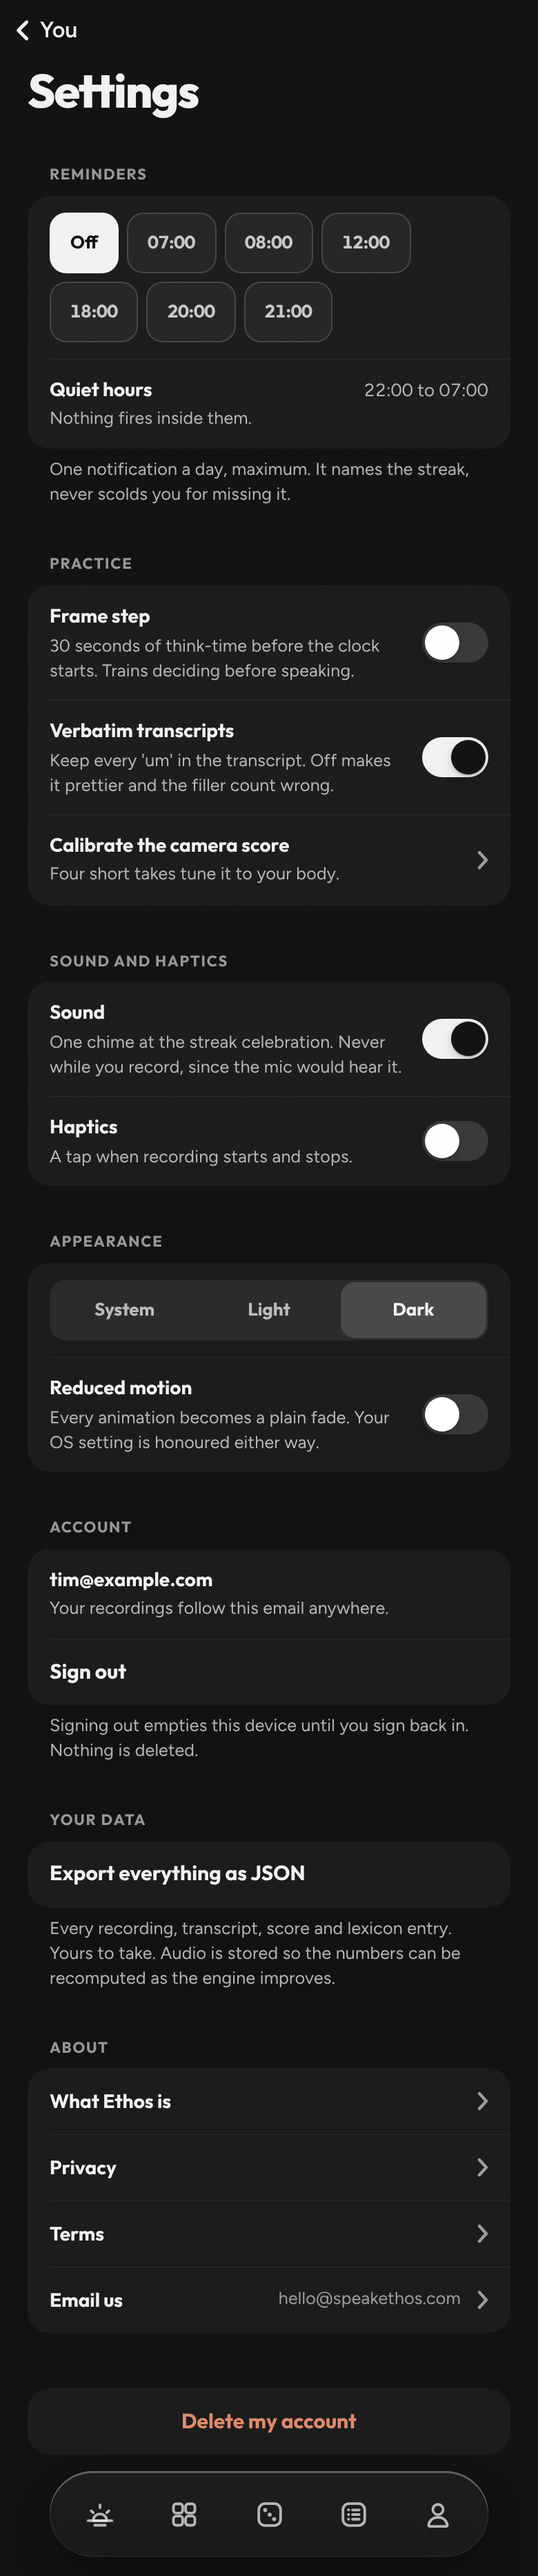
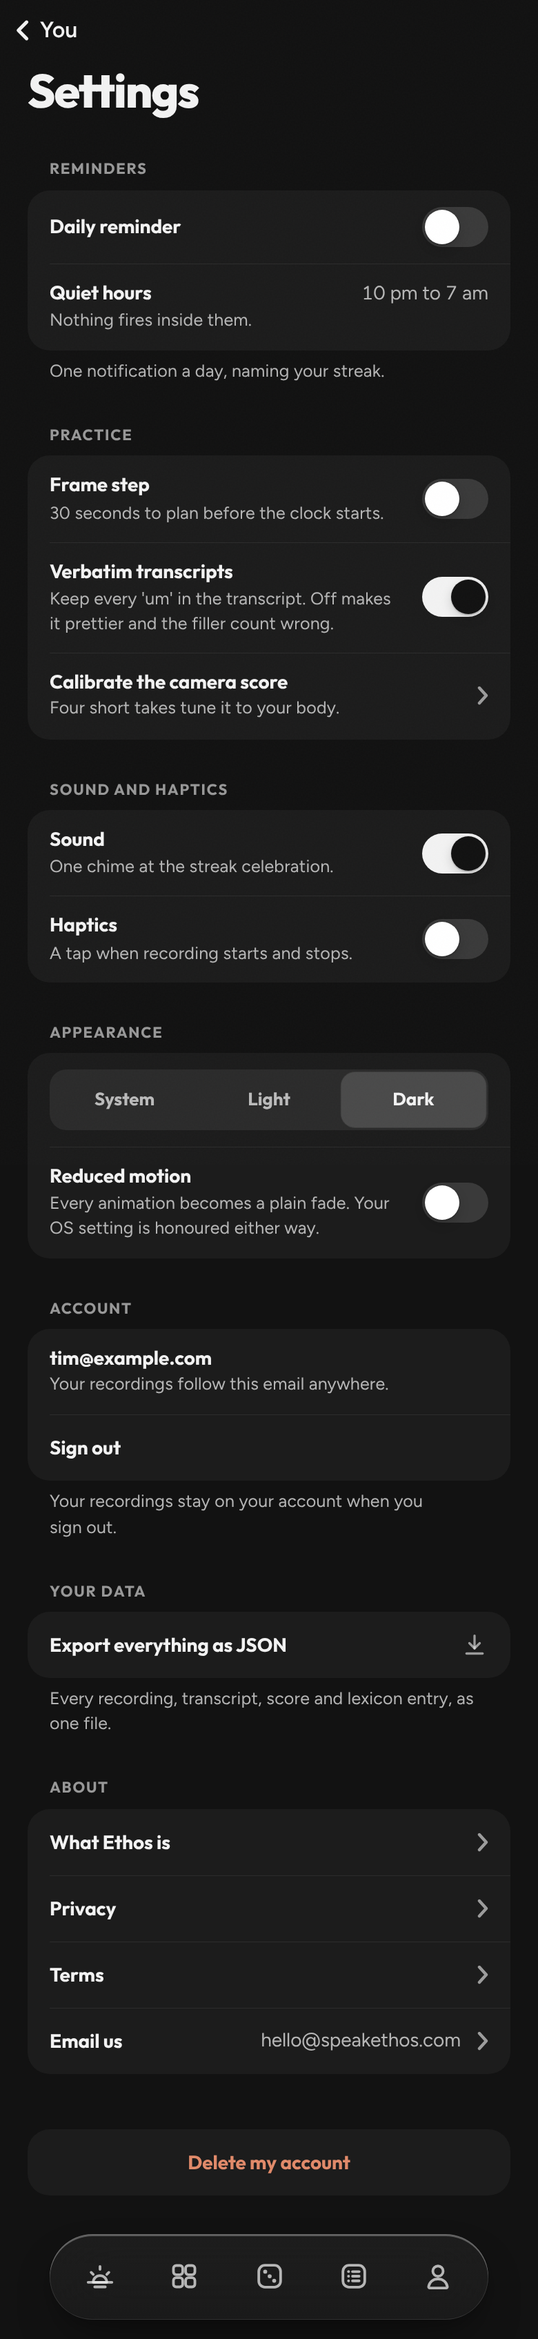
B8: the Settings look loop: Export carries a download mark, after shots with the reminder off and on
Claude-Session: https://claude.ai/code/session_01KQpi1wPL2sdqgKKvt94vrP

diff --git a/app/settings/page.tsx b/app/settings/page.tsx
@@ -398,9 +398,29 @@ export default function SettingsPage() {
         <button
           onClick={() => void exportData()}
           disabled={exporting}
-          className={`group-row press-row font-display w-full text-left text-row ${DISABLED_CLASS}`}
+          className={`group-row press-row flex w-full items-center gap-3 text-left ${DISABLED_CLASS}`}
         >
-          {exporting ? "Building your file…" : "Export everything as JSON"}
+          <span className="font-display min-w-0 flex-1 text-row">
+            {exporting ? "Building your file…" : "Export everything as JSON"}
+          </span>
+          {/* The row's affordance (you-18): a download mark in the
+              functional glyph colour, never a hue. */}
+          <svg
+            aria-hidden
+            width="20"
+            height="20"
+            viewBox="0 0 24 24"
+            fill="none"
+            stroke="currentColor"
+            strokeWidth="2"
+            strokeLinecap="round"
+            strokeLinejoin="round"
+            className="shrink-0 text-stone-400"
+          >
+            <path d="M12 4v11" />
+            <path d="m7.5 10.5 4.5 4.5 4.5-4.5" />
+            <path d="M5 19.5h14" />
+          </svg>
         </button>
       </Section>
 
